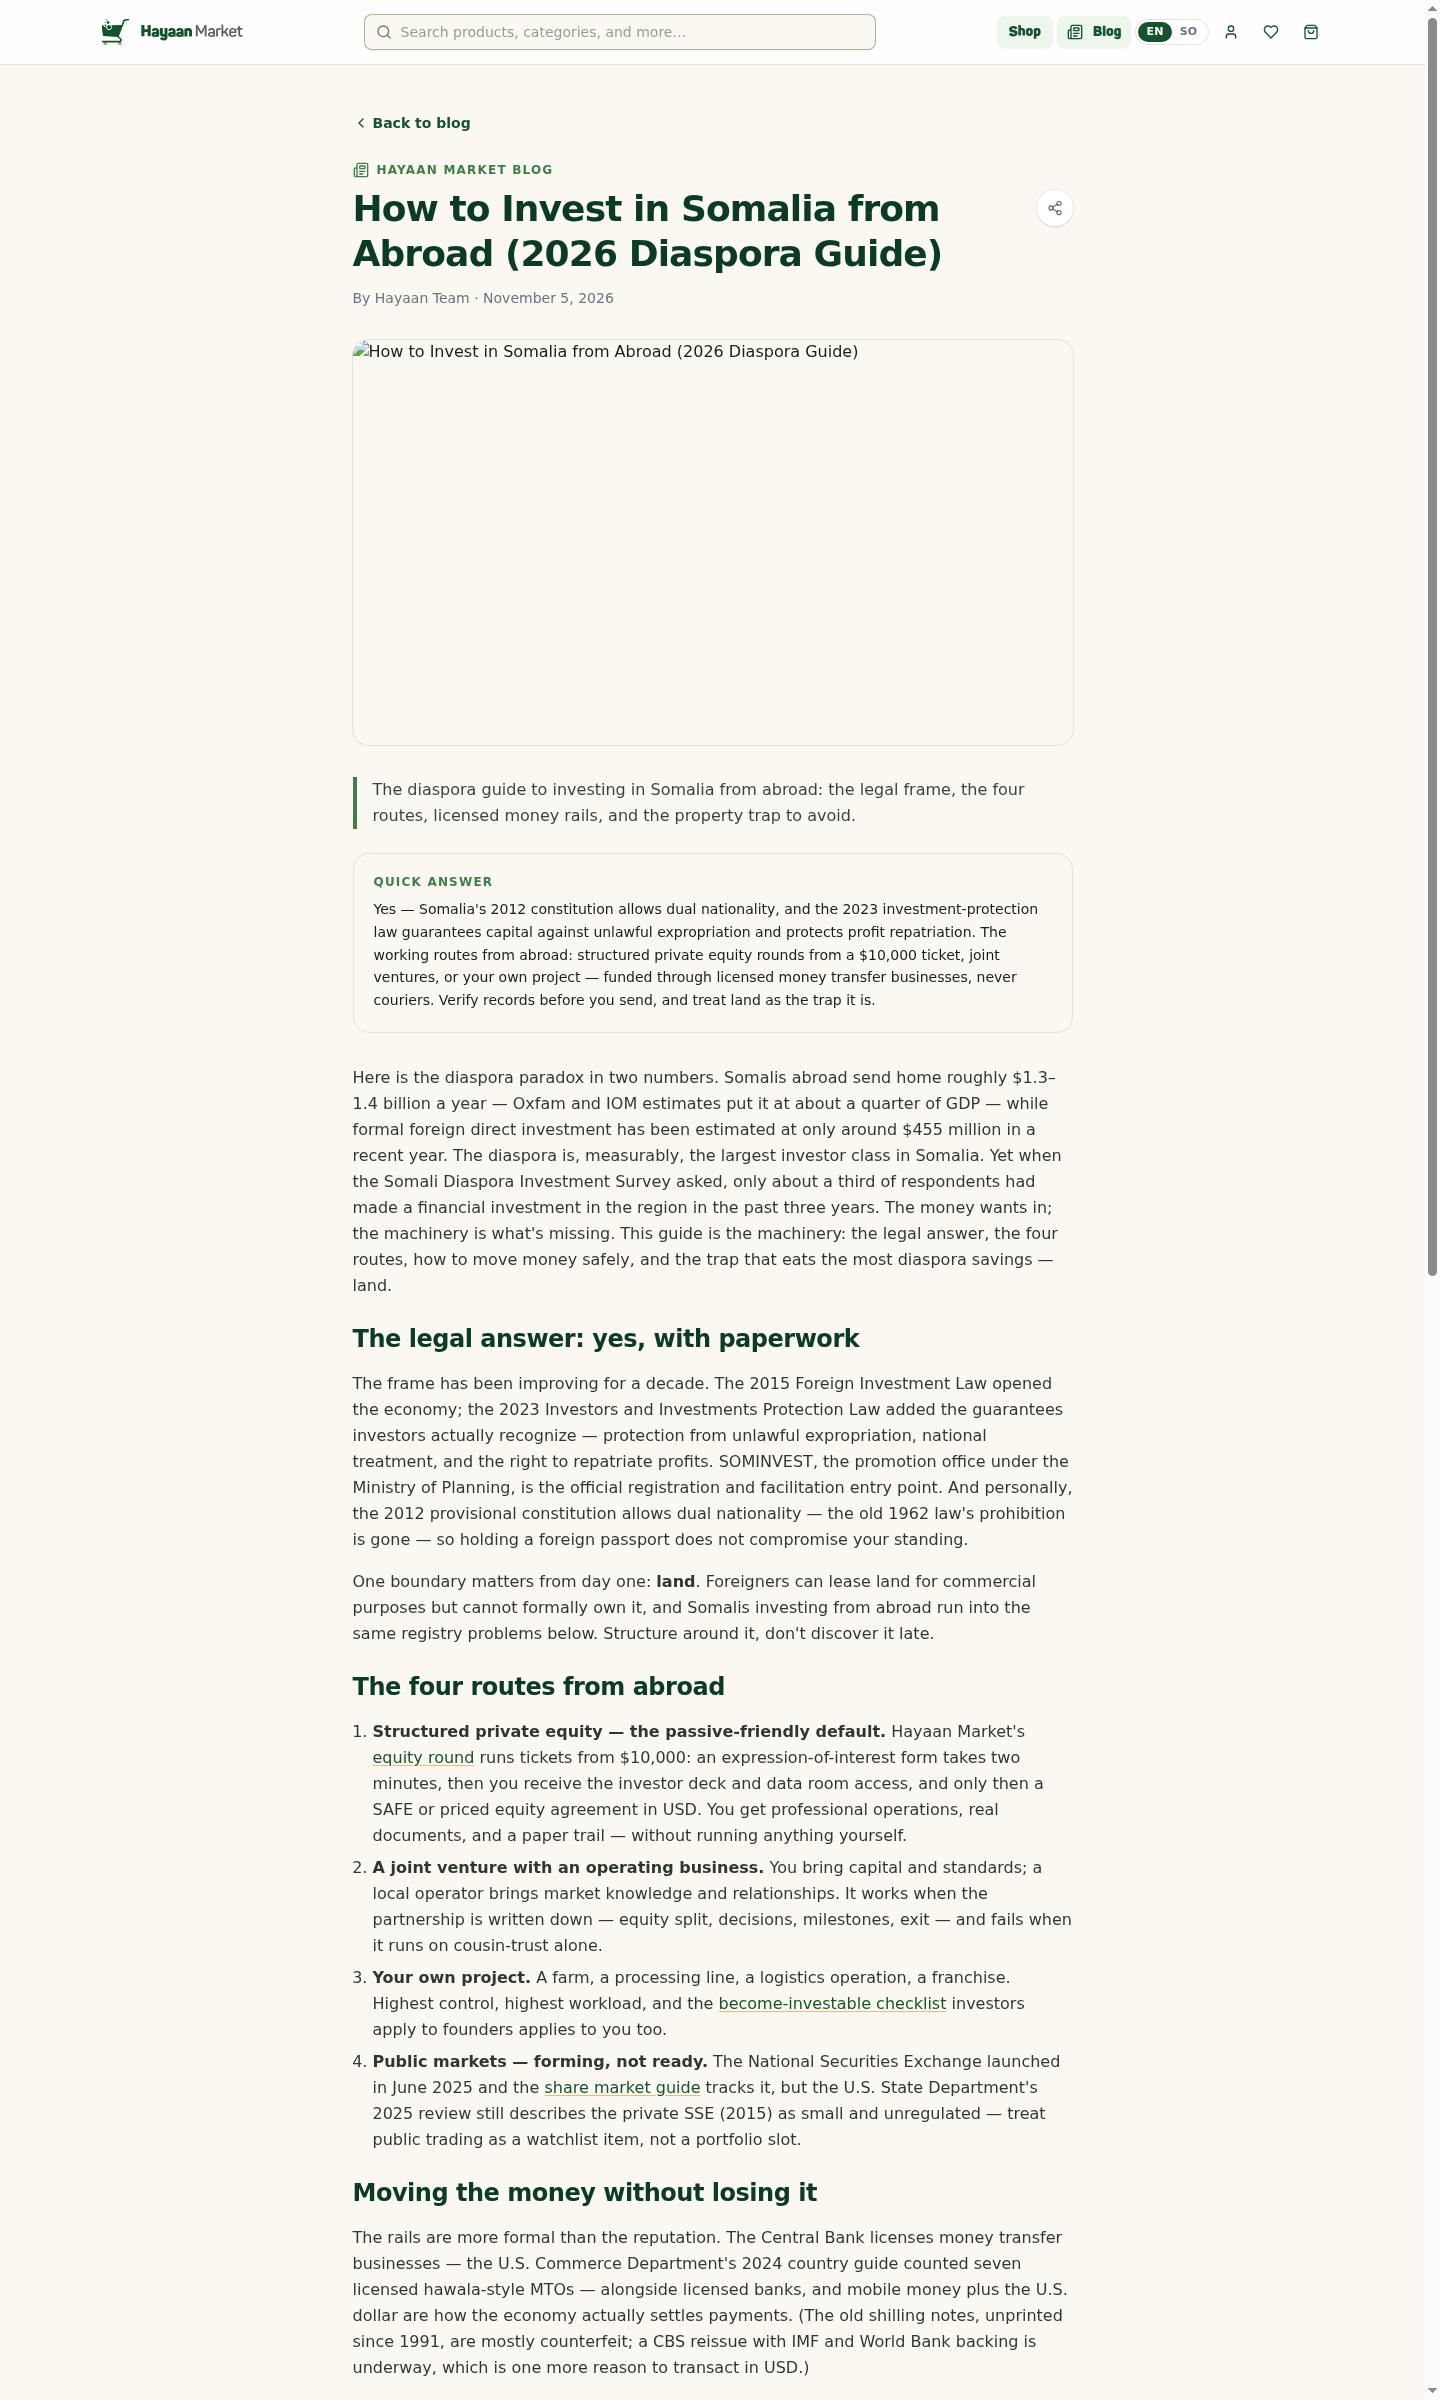
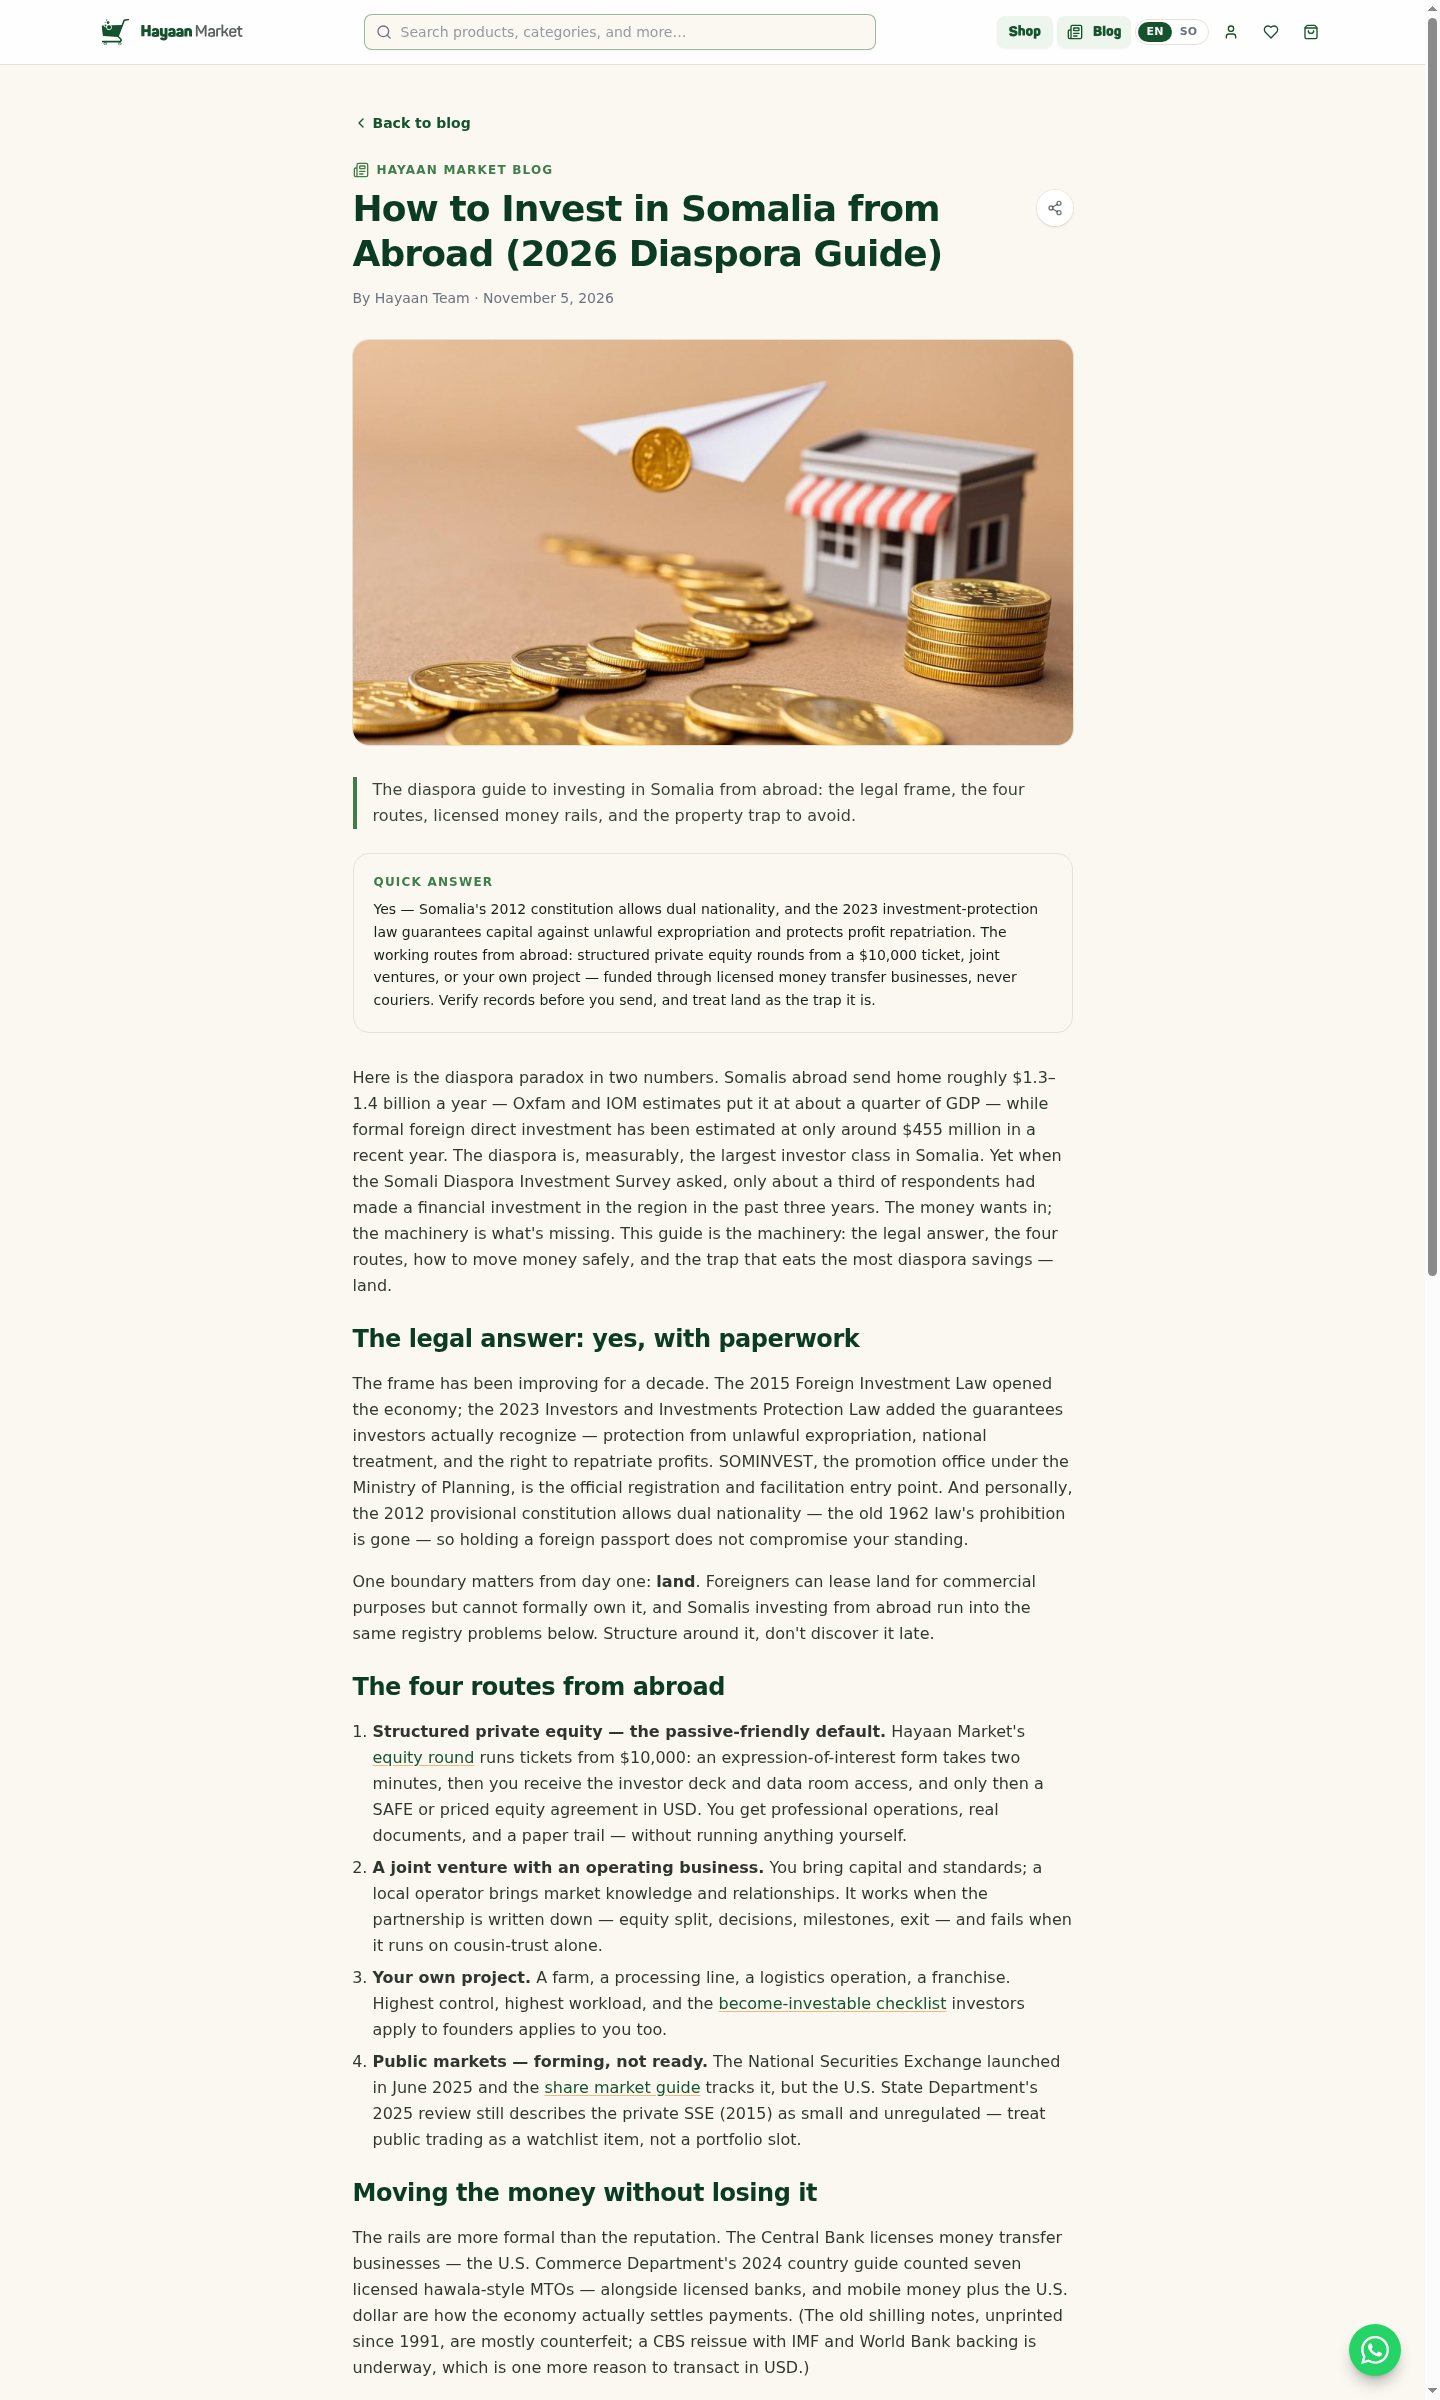
Task 146-deploy: pushed b6db984..8f5f320 (trigger-miss -> retrigger ff231ba PASS), prod verified 16/16 — diaspora guide live (post #31, cover renders, schema+facts+11 links green); worklog + prod evidence; 3rd trigger-miss noted (retrigger playbook confirmed)

Changed region(s): [[0.2188, 0.125, 0.75, 0.3125], [0.9375, 0.9688, 0.9688, 1.0]]

diff --git a/worklog.md b/worklog.md
@@ -3459,3 +3459,20 @@ Work Log:
 Stage Summary:
 - Task 145 CODE COMPLETE (push pending): post29 umbrella guide live-ready, 16/16 local. After push + CI: re-run harness against prod (cover render), close.
 - Deploy + prod verify (same session): pushed 41848b8..6c13eae, CI PASS first run (~2.5min). Prod harness 16/16 on https://hayaan.co — cover renders on prod (confirmed in screenshot), schema/facts/links all green. Screenshot download/task145-blog-prod-investment-opportunities-in-somalia.png. Task 145 CLOSED — post #30 live; the investing cluster now has its umbrella pillar: 5 guides + /investors page covering the full investor search surface.
+
+---
+Task ID: 146
+Agent: Super Z (main)
+Task: Owner: "continue" (after Task 145 + keyword-roadmap offer) — next investor keyword: "how to invest in Somalia from abroad" (diaspora intent) + GH token
+
+Work Log:
+- Positioning: the diaspora intent is the /investors funnel's EXACT audience, and post29's FAQ ("How do I invest in Somalia from abroad?") already seeded it. Shipped as post30 — post29's FAQ now cross-links to it (two-way cluster weaving).
+- Facts verified on publish day (the distinctive set this time): remittances ~$1.3B Oxfam / ~$1.4B ~quarter of GDP IOM vs UNCTAD-cited FDI ~$455M (2021, via How-We-Made-It-In-Africa) -> the post's framing "the diaspora is, measurably, the largest investor class in Somalia"; Somali Diaspora Investment Survey discussion brief (Feb 2026, ffremittances.org): only 33% of surveyed diaspora invested in the past 3 years -> "the appetite is bigger than the machinery"; dual nationality permitted by the 2012 provisional constitution (1962 law's prohibition superseded — citizenshiprightsafrica.org + Kenya Times); seven licensed hawala-style MTOs (US Commerce CCG Jan 2024); shilling unprinted since 1991, >98% counterfeit, USD + mobile money standard, CBS reissue with IMF/WB backing (State Dept 2025 ICS); property trap: no federal registry, fraudulent titles common, pre-1991 records moved abroad (verification ~1 month + $1,000-2,000), lawyer title check ~$50, foreigners lease-not-own, Somaliland framework more advanced (State Dept 2025 ICS); SSE 2015 small/unregulated + NSES June 2025 forming (consistent with Task 129 set).
+- SEO/AEO kit: title 57 chars keyword-first, 60-word quickAnswer, 5 PAA-style FAQs -> FAQPage, 5 howtoSteps -> HowTo, ~1,200-word body with the honest property-trap section (the distinctive diaspora-loss content no competitor dares write), keyword "from abroad" x51, 8 internal links (4 cluster guides + payments + /investors x2), series disclaimer.
+- Cover: task146-blog-covers.mjs — paper airplane carrying a coin along a coin path to a tiny model shop ("money arriving home", series style, no text) -> 1200x675 JPG 75KB. llms.txt investing section now 6 guides + umbrella.
+- Local verify (t146-run.sh): 16/16 PASS — page/h1/quick-answer, keyword density, BlogPosting+FAQPage+HowTo, 5 FAQ questions, verified-facts assertions ($455M/seven licensed/lease-not-own/$10,000), no-7%-growth assertion, canonical/og:image/cover, /blog + sitemap + llms.txt + llms-full.txt, all 11 content links resolve.
+- Deploy pattern now reliable data: first push trigger-miss AGAIN (no check-runs ~5min, 3rd occurrence: Tasks 132/144/146) — empty-commit retrigger worked again (2nd time, after Task 144). CF's webhook seems to skip roughly every other push from this token path; always retrigger after ~5min of silence.
+
+Stage Summary:
+- Task 146 CODE COMPLETE (push pending): post30 diaspora guide live-ready, 16/16 local. After push + CI: prod harness, close.
+- Deploy + prod verify (same session): pushed b6db984..8f5f320 (carry stray raw-cover commit 51bba7e) — trigger-miss -> retrigger ff231ba -> CI PASS. Prod harness 16/16 on https://hayaan.co, cover renders (screenshot download/task146-blog-how-to-invest-in-somalia-from-abroad.png). Task 146 CLOSED — post #31 live; investing cluster = umbrella + diaspora + 3 instrument guides + 2 market rails guides, 6 llms.txt lines, all cross-linked, all funneling to /investors.
